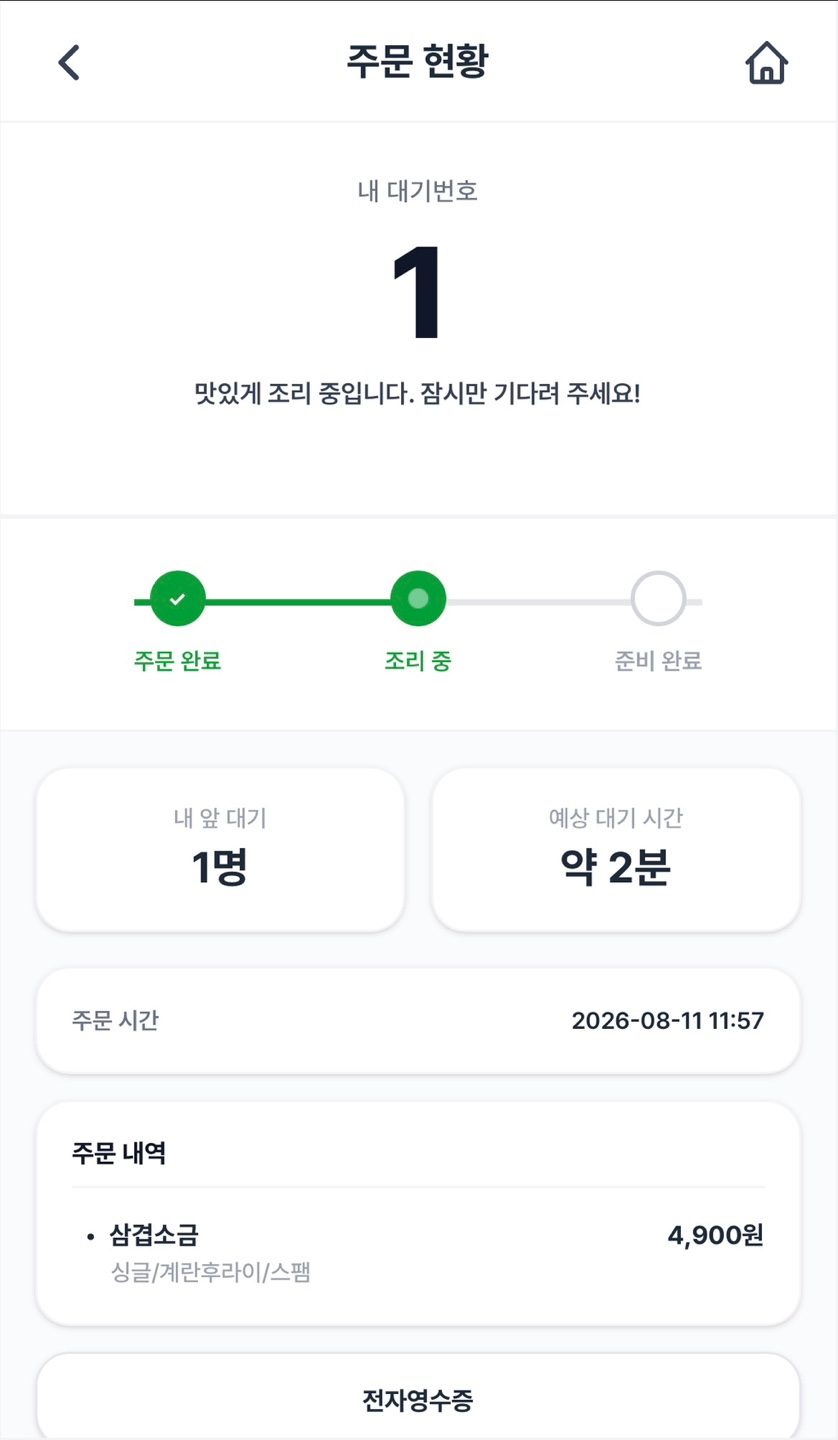
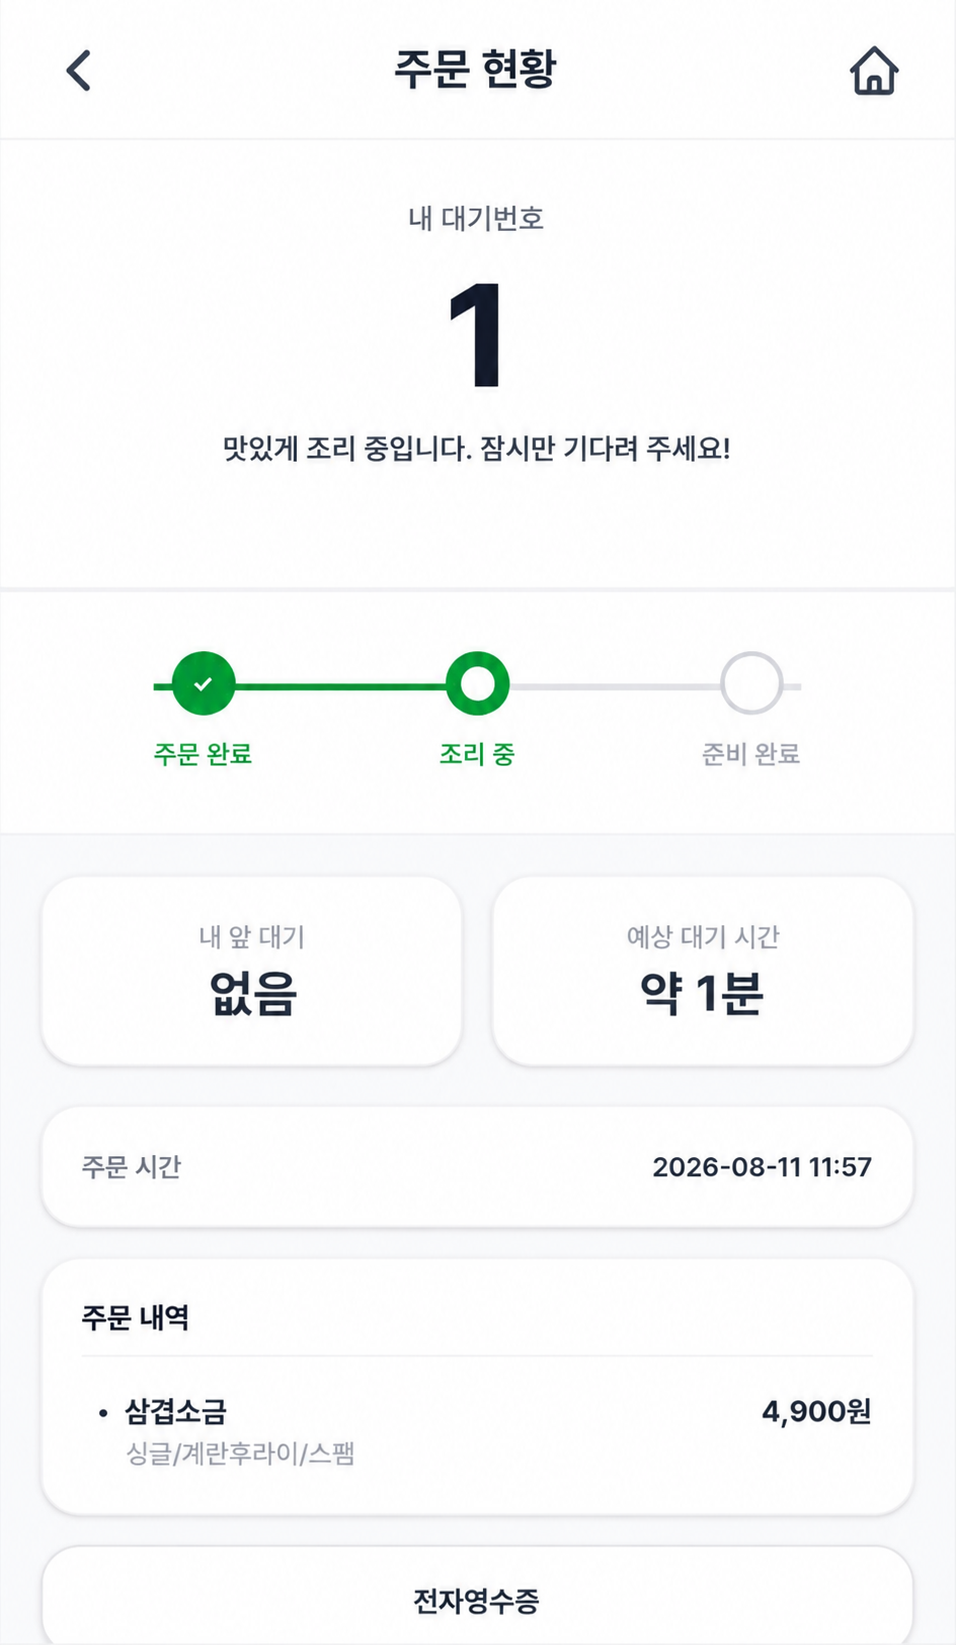
ui: 관리자 전자영수증 팝업 프린터 안내 문구 제거

diff --git a/FE/src/pages/owner/PaymentHistoryPage.tsx b/FE/src/pages/owner/PaymentHistoryPage.tsx
@@ -626,9 +626,6 @@ function ReceiptPopup({
               {downloading === "pdf" ? "저장 중..." : "PDF 저장"}
             </button>
           </div>
-          <p className="text-center text-[12px] leading-relaxed text-black/45">
-            관리자 프린터 앱에서 USB 영수증 프린터로 출력합니다.
-          </p>
         </div>
       </div>
     </div>
